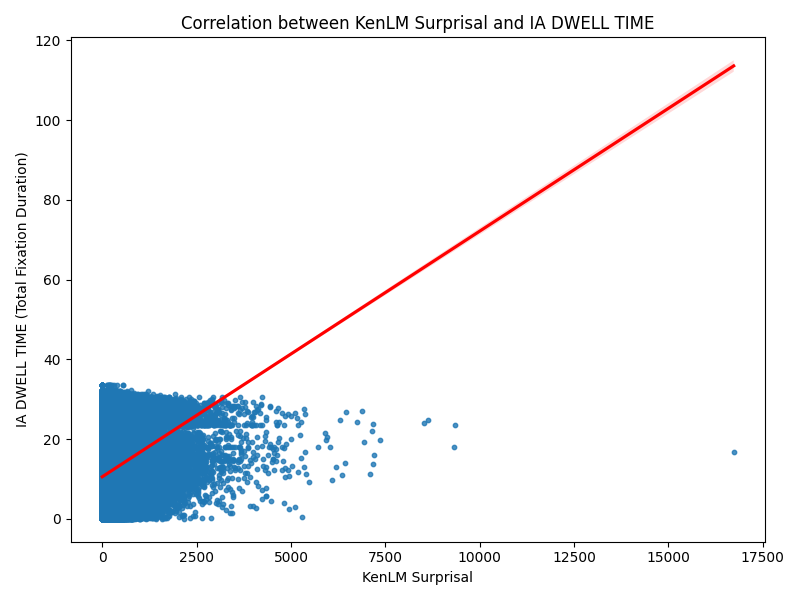
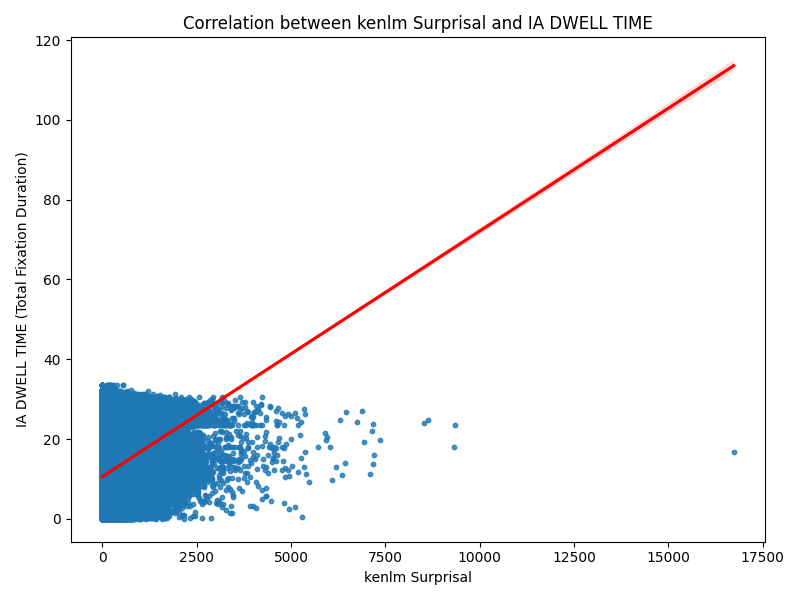
Simplified graph generating code for constracted part 1

Changed region(s): [[0.2188, 0.03, 0.8125, 0.06], [0.4375, 0.93, 0.5938, 0.99], [0.0312, 0.18, 0.0938, 0.21]]

diff --git a/get_results/kenlm_vs_pythia_plot.py b/get_results/kenlm_vs_pythia_plot.py
@@ -7,6 +7,12 @@ from scipy.stats import pearsonr
 import warnings
 warnings.filterwarnings('ignore')
 
+merged_path = "pre_processing_data\merged_surprisal_dwell_kenlm_pythia.csv"
+# outputs paths
+results_folder = "results_constructed_part1"
+output_graph_path = results_folder + "/surprisals_correlation_scatter.png"
+output_summary_path = results_folder + "/summary_statistics_surprsial_kenlm_surprisal_pythia_graph.csv"
+
 
 def load_surprisal_data(csv_file):
     """Load the surprisal data from CSV file."""
@@ -78,19 +84,19 @@ def create_scatter_plot(df, stats_dict, output_file=None, figsize=(10, 8)):
               fontsize=14, fontweight='bold')
     
     # Add statistics text box
-    stats_text = f"""Statistics:
-    r = {stats_dict['correlation']:.3f}
-    R² = {stats_dict['r_squared']:.3f}
-    p = {stats_dict['p_value']:.2e}
-    n = {len(df):,} words"""
+    # stats_text = f"""Statistics:
+    # r = {stats_dict['correlation']:.3f}
+    # R² = {stats_dict['r_squared']:.3f}
+    # p = {stats_dict['p_value']:.2e}
+    # n = {len(df):,} words"""
     
-    plt.text(0.05, 0.95, stats_text, transform=plt.gca().transAxes, 
-             verticalalignment='top', bbox=dict(boxstyle='round', facecolor='white', alpha=0.8),
-             fontsize=10)
+    # plt.text(0.05, 0.95, stats_text, transform=plt.gca().transAxes, 
+    #          verticalalignment='top', bbox=dict(boxstyle='round', facecolor='white', alpha=0.8),
+    #          fontsize=10)
     
     # Add grid and legend
     plt.grid(True, alpha=0.3)
-    plt.legend(loc='lower right')
+    # plt.legend(loc='lower right')
     
     # Tight layout
     plt.tight_layout()
@@ -102,7 +108,7 @@ def create_scatter_plot(df, stats_dict, output_file=None, figsize=(10, 8)):
     
     plt.show()
 
-def print_summary_statistics(df, stats_dict):
+def print_summary_statistics(df, stats_dict, output_summary_path):
     """Print summary statistics about the data and correlation."""
     print("\n" + "="*50)
     print("SUMMARY STATISTICS")
@@ -136,8 +142,25 @@ def print_summary_statistics(df, stats_dict):
     else:
         print("  Significance: Not significant (p >= 0.05)")
 
+    # save all printed information to csv
+    summary_stats = {
+        'Total Words': len(df),
+        'KenLM Mean': df['kenlm_surprisal'].mean(),
+        'KenLM Std': df['kenlm_surprisal'].std(),
+        'KenLM Min': df['kenlm_surprisal'].min(),
+        'KenLM Max': df['kenlm_surprisal'].max(),
+        'Pythia Mean': df['pythia70M_surprisal'].mean(),
+        'Pythia Std': df['pythia70M_surprisal'].std(),
+        'Pythia Min': df['pythia70M_surprisal'].min(),
+        'Pythia Max': df['pythia70M_surprisal'].max(),
+        'Pearson Correlation': stats_dict['correlation'],
+        'R-squared': stats_dict['r_squared'],
+        'P-value': stats_dict['p_value']
+    }
+    summary_df = pd.DataFrame([summary_stats])
+    summary_df.to_csv(output_summary_path, index=False)
 
-def main(csv_file, scatter_output=None, hexbin_output=None, plot_type='both'):
+def main(csv_file, scatter_output, output_summary_path):
     """Main function to analyze and plot surprisal correlations."""
     
     # Load and clean data
@@ -153,18 +176,12 @@ def main(csv_file, scatter_output=None, hexbin_output=None, plot_type='both'):
                                     df_clean['pythia70M_surprisal'])
     
     # Print summary
-    print_summary_statistics(df_clean, stats_dict)
+    print_summary_statistics(df_clean, stats_dict, output_summary_path)
     
     # Create plot
     create_scatter_plot(df_clean, stats_dict, scatter_output)
     
 
 if __name__ == "__main__":
-    # Configuration
-    csv_file = "C:/Users/raque/Desktop/LCC_project/pre_processing_data/merged_surprisal_dwell_kenlm_pythia.csv"
-    
-    # Optional: specify output file names
-    scatter_output = "surprisal_correlation_scatter.png"
-    
     # Run analysis
-    main(csv_file, scatter_output, plot_type='both')
+    main(merged_path, output_graph_path, output_summary_path)

diff --git a/get_results/get_results_constructed_part1.py b/get_results/get_results_constructed_part1.py
@@ -2,10 +2,16 @@ import pandas as pd
 import matplotlib.pyplot as plt
 import seaborn as sns
 
-merged_path = "merged_surprisal_dwell.csv"
+merged_path = "pre_processing_data\merged_surprisal_dwell_kenlm_pythia.csv"
 results_folder = "results_constructed_part1"
 
-def get_praph_results_part1(merged_dataframe):
+model_name_to_model_surprisal_column = {
+    "kenlm": "kenlm_surprisal",
+    "pythia": "pythia70M_surprisal"
+}
+
+
+def get_praph_results_part1(merged_dataframe, model_name="kenlm"):
     """
     This function is a placeholder for the first part of the graph results.
     It currently returns an empty dictionary.
@@ -13,22 +19,24 @@ def get_praph_results_part1(merged_dataframe):
     Returns:
         dict: An empty dictionary representing the graph results.
     """
+    model_surprisal_column = model_name_to_model_surprisal_column[model_name]
     plt.figure(figsize=(8, 6))
-    sns.regplot(x="IA_DWELL_TIME", y="kenlm_surprisal", data=merged_dataframe, scatter_kws={"s": 10}, line_kws={"color": "red"})
-    plt.title("Correlation between KenLM Surprisal and IA DWELL TIME")
-    plt.xlabel("KenLM Surprisal")
+    sns.regplot(x="IA_DWELL_TIME", y=model_surprisal_column, data=merged_dataframe, scatter_kws={"s": 10}, line_kws={"color": "red"})
+    plt.title(f"Correlation between {model_name} Surprisal and IA DWELL TIME")
+    plt.xlabel(f"{model_name} Surprisal")
     plt.ylabel("IA DWELL TIME (Total Fixation Duration)")
 
     plt.tight_layout()
-    plt.savefig(results_folder + "/kenlm_surprisal_vs_dwelltime.png")  # Save the plot
+    plt.savefig(results_folder + f"\{model_name}_surprisal_vs_dwelltime.png")  # Save the plot
     plt.show()
+
 
 def main(merged_path):
     # Load the merged dataframe
     merged_df = pd.read_csv(merged_path)
-    
     # Call the function to get graph results
-    get_praph_results_part1(merged_df)
+    get_praph_results_part1(merged_df, "kenlm")
+    get_praph_results_part1(merged_df, "pythia")
 
 
 if __name__ == "__main__":
